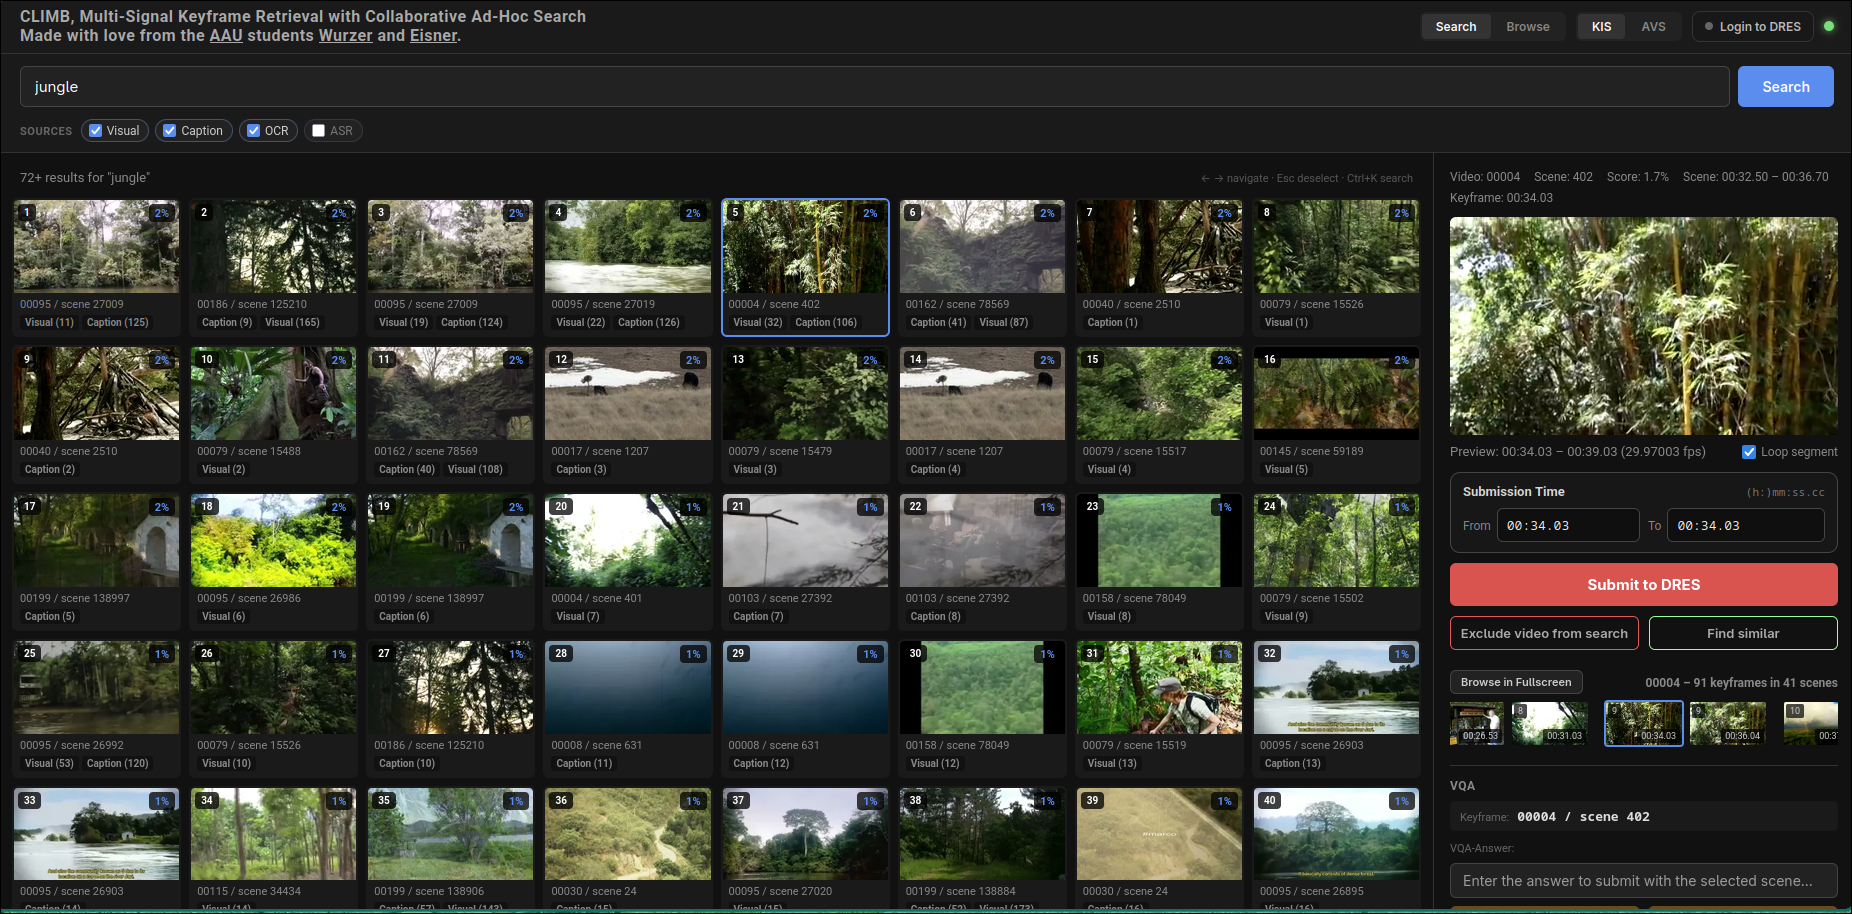
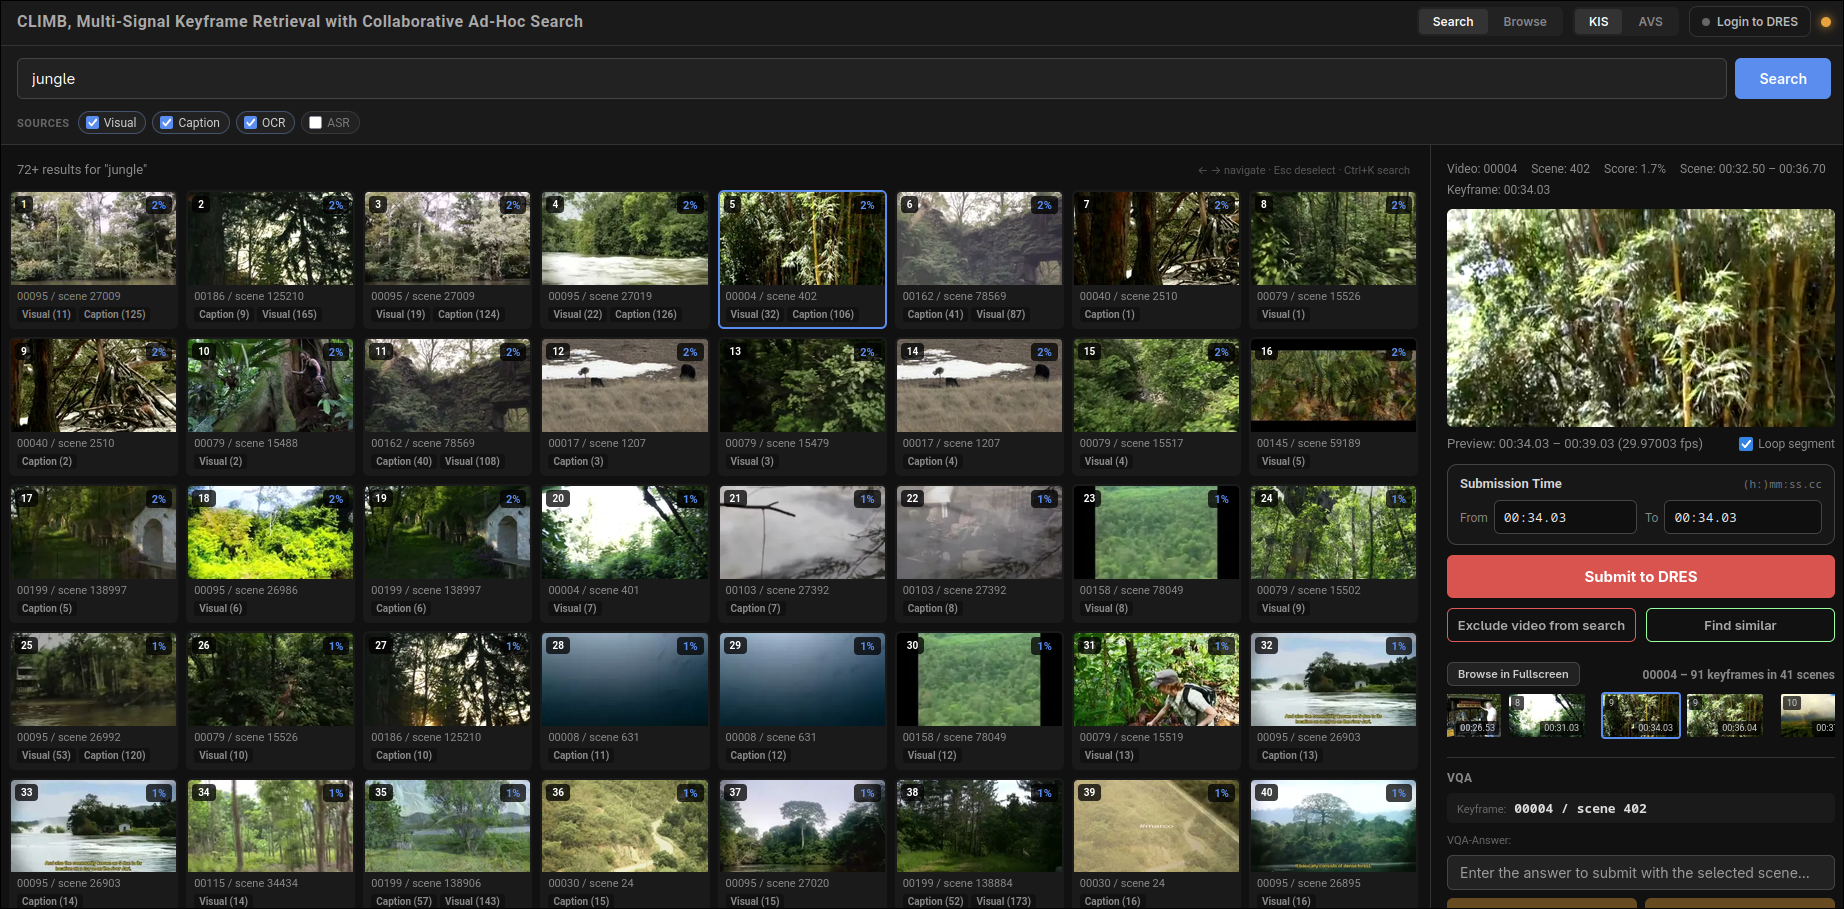
updated ui-screenshot, annotation still has to be done

Changed region(s): [[0.0, 0.0, 1.0, 1.0], [0.7728, 0.0, 1.0, 0.1232]]

diff --git a/frontend/src/App.jsx b/frontend/src/App.jsx
@@ -732,9 +732,6 @@ function App() {
                 <div className="app-header-left">
                     <h1>
                         CLIMB, Multi-Signal Keyframe Retrieval with Collaborative Ad-Hoc Search
-                        <br/>
-                        Made with love from the <a href="https://www.aau.at">AAU</a> students <a href="https://github.com/towurzer">Wurzer</a> and <a
-                        href="https://github.com/sesnr">Eisner</a>.
                     </h1>
                 </div>
 
